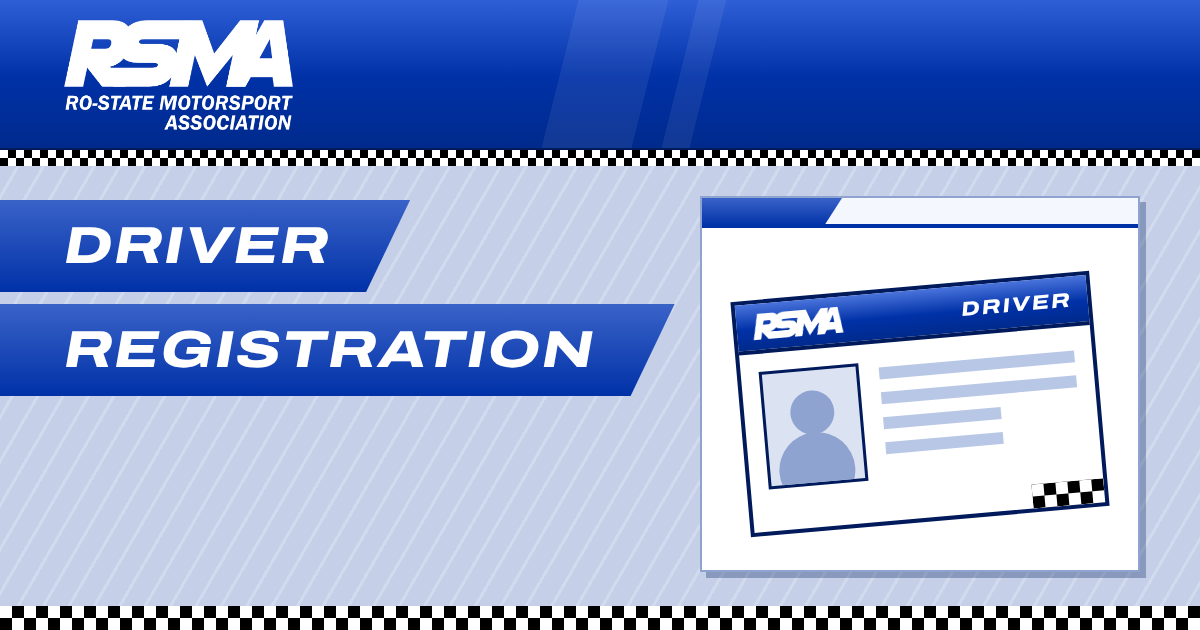
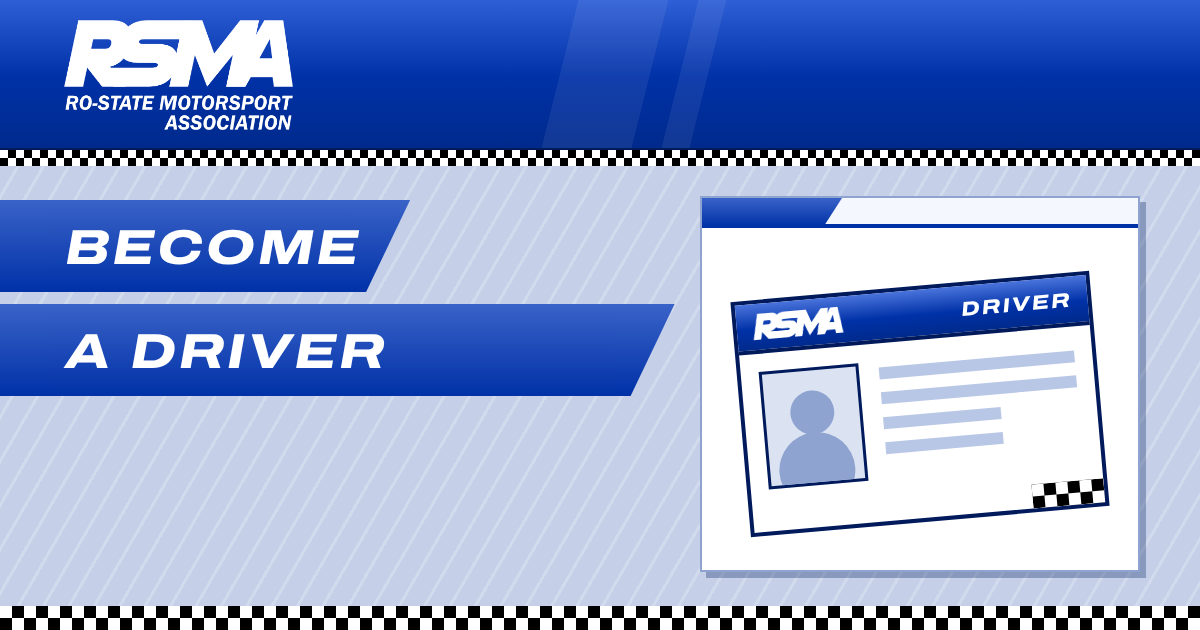
Rename Independent Drivers to Become a Driver, rework its copy, move the team tab right (#44)
Claude-Session: https://claude.ai/code/session_01HzCgAe9hoSQTBxnVkHH91W

Changed region(s): [[0.0308, 0.5127, 0.4933, 0.6032], [0.0617, 0.3619, 0.3083, 0.4222]]

diff --git a/src/DriverRegistration.tsx b/src/DriverRegistration.tsx
@@ -112,10 +112,11 @@ export function DriverRegistration() {
           </Bd>
         </Box>
       ) : teams.length === 0 ? (
-        <Box title="Race for a Team">
+        <Box title="Become a Driver">
           <Bd>
+            <p style={{ marginBottom: 4 }}>There are two ways to race in the RSMA: for a team, or without one.</p>
             <p style={{ marginBottom: 8 }}>
-              Teams that are hiring post in #team-updates on the RSMA Discord. Team drivers are registered for sessions by their team and have reserved slots.
+              <b>Race for a team.</b> Teams that are hiring post in #team-updates on the RSMA Discord. Your team registers you for sessions, and team drivers have reserved slots. This is the usual way in.
             </p>
             <div className="bar">
               <a className="btn pri" href={DISCORD_URL} target="_blank" rel="noreferrer">Find a Team on Discord</a>
@@ -131,12 +132,12 @@ export function DriverRegistration() {
           </Bd>
         </Box>
       )}
-      <Box title="Independent Drivers">
+      <Box title="Register Without a Team">
         <Bd>
           <p style={{ marginBottom: 8 }}>
-            {teams.length > 0 && <b>Only for drivers without a team. </b>}Independent drivers race without a team. To race you must be in the {link(GROUP_URL, "RSMA Roblox group")}. Make sure you are in the group or that you have sent a join request, before the deadline. Staff use your Discord username to contact you.
+            {teams.length > 0 ? <b>Only for drivers without a team. </b> : <b>Race without a team. </b>}Independent drivers register themselves for each session. To race you must be in the {link(GROUP_URL, "RSMA Roblox group")}. Make sure you are in the group or that you have sent a join request, before the deadline. Staff use your Discord username to contact you.
           </p>
-          {regs && options.length === 0 && <div className="mute">No session is open for independent drivers.</div>}
+          {regs && options.length === 0 && <div className="mute">No session is open for drivers without a team.</div>}
           {chosen && status && (
             <div className="bar">
               <select aria-label="Session" style={{ width: 300 }} value={sid} onChange={(e) => setPick(e.target.value)}>

diff --git a/src/site/SiteShell.tsx b/src/site/SiteShell.tsx
@@ -57,11 +57,11 @@ export function SiteShell({ children }: { children: ReactNode }) {
         <nav className="tabs">
           {tab("/", "Home", pathname === "/" || pathname.startsWith("/race/") || (pathname.startsWith("/session/") && !onTeam))}
           {tab("/schedule", "Schedule")}
-          {tab("/driver-registration", "Independent Drivers")}
+          {tab("/driver-registration", "Become a Driver")}
           {!owner && tab("/team-registration", "Team Registration")}
           {tab("/work-at-rsma", "Work at the RSMA")}
-          {team && tab("/my-team", <span style={{ display: "inline-block", maxWidth: "16ch", overflow: "hidden", textOverflow: "ellipsis", whiteSpace: "nowrap", verticalAlign: "bottom" }}>{teamLabel}</span>, onTeam, undefined, teamLabel)}
           <span className="sp" />
+          {team && tab("/my-team", <span style={{ display: "inline-block", maxWidth: "16ch", overflow: "hidden", textOverflow: "ellipsis", whiteSpace: "nowrap", verticalAlign: "bottom" }}>{teamLabel}</span>, onTeam, undefined, teamLabel)}
           {staff && tab("/admin", "Admin", pathname.startsWith("/admin"), "staff")}
         </nav>
         <main className="main">

diff --git a/src/Home.tsx b/src/Home.tsx
@@ -48,7 +48,7 @@ function About() {
     <Box title="About the RSMA">
       <Bd>
         <p style={{ marginBottom: 6 }}>
-          The Ro-State Motorsport Association runs rally and time-trial events in Roblox. Teams register their drivers for each session and have reserved slots, and independent drivers can register too.
+          The Ro-State Motorsport Association runs rally and time-trial events in Roblox. Teams register their drivers for each session and have reserved slots, and drivers without a team can register too.
         </p>
         <div className="bar">
           {owned.length > 0 ? (
@@ -56,7 +56,7 @@ function About() {
           ) : (
             <Link className="btn pri" to="/team-registration">Register a Team</Link>
           )}
-          <Link className="btn" to="/driver-registration">Independent Drivers</Link>
+          <Link className="btn" to="/driver-registration">Become a Driver</Link>
         </div>
       </Bd>
     </Box>

diff --git a/tests/embed.test.ts b/tests/embed.test.ts
@@ -7,7 +7,7 @@ const session = { id: "s1", raceId: "r1", name: "Practice 1", type: "practice" a
 const race = (over: Partial<RaceSummary> = {}): RaceSummary => ({ id: "r1", name: "Test Race", expiresAt: 0, sessions: [session], ended: false, ...over });
 
 test("public pages have their own preview and everything else gets the site-wide card", () => {
-  assert.equal((routeOf("/driver-registration") as { embed: { title: string } }).embed.title, "Independent Drivers");
+  assert.equal((routeOf("/driver-registration") as { embed: { title: string } }).embed.title, "Become a Driver");
   assert.equal((routeOf("/schedule") as { embed: { title: string } }).embed.title, "Schedule");
   assert.equal((routeOf("/terms/") as { embed: { title: string } }).embed.title, "Terms of service");
   for (const gated of ["/admin", "/my-team", "/my-team/t1", "/session/s1/steward", "/session/s1/driver", "/session/s1/team/t1", "/session/s1/register", "/nope"]) {

diff --git a/shared/embed.ts b/shared/embed.ts
@@ -18,8 +18,8 @@ const STATIC: Record<string, Embed> = {
   "/": { title: "Ro-State Motorsport Association", description: "Live timing, results and registration for RSMA events.", image: "home" },
   "/schedule": { title: "Schedule", description: "Upcoming RSMA races and sessions, with start times in your own time zone.", image: "home" },
   "/driver-registration": {
-    title: "Independent Drivers",
-    description: "Register as an independent driver for an RSMA session, or find a team to race for.",
+    title: "Become a Driver",
+    description: "Become an RSMA driver: race for a team, or register for a session on your own without one.",
     image: "driver",
   },
   "/team-registration": {
